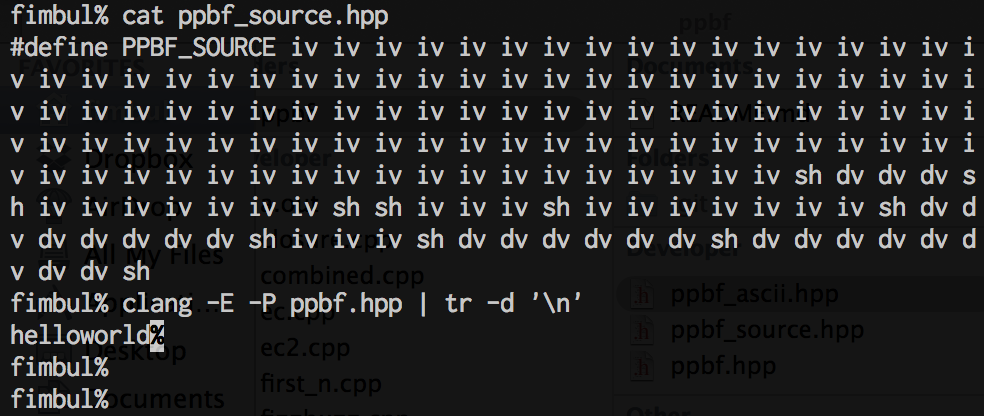
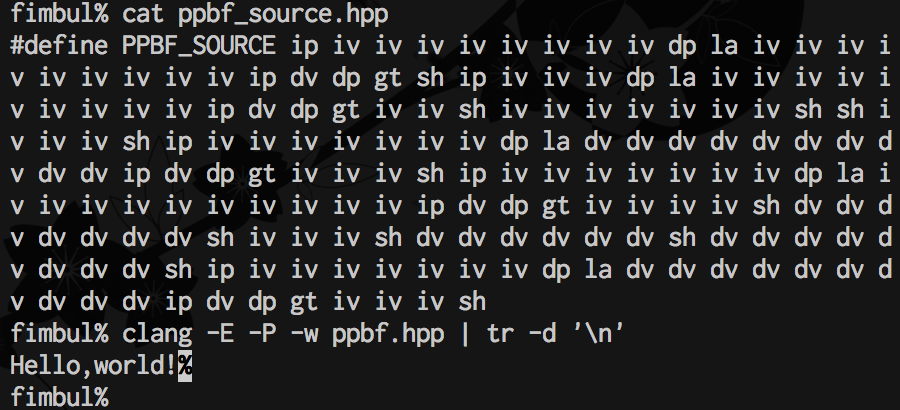
READMEを更新、screenshotを差し替え

Changed region(s): [[0.0, 0.0, 0.9956, 0.9951]]

diff --git a/README.md b/README.md
@@ -1,15 +1,24 @@
 #ソースコードの記述  
 実行コードはppbf_source.hpp内のPPBF_SOURCEに1命令ずつスペースで区切って記述する
 
+#仕様
+3つのポインタからなり、初期状態では全てのポインタの値は0であり、1つ目のポインタを指している  
+それぞれのポインタには役割がある  
+1つ目のポインタ - 値ポインタ  
+2つ目のポインタ - フラグポインタ  
+3つ目のポインタ - ラベルポインタ  
+
 #命令  
 ip - ポインタをインクリメントする  
 vp - ポインタをデクリメントする  
 iv - ポインタの指す値をインクリメントする  
 dv - ポインタの指す値をデクリメントする  
 sh - ポインタの指す値を表示する  
+la - ラベルポインタに現在の命令位置を書き込む  
+gt - フラグポインタの値が0でなければラベルポインタの指す命令位置にジャンプする  
 
 #実行  
-clang -E -P ppbf.hpp | tr -d '\n' または gcc -E -P ppbf.hpp | tr -d '\n'   
+clang -E -P -w ppbf.hpp | tr -d '\n' または gcc -E -P -w ppbf.hpp | tr -d '\n'   
 プリプロセッサでソースコードを解釈し、tr -d '\n'で余計な改行を除去してやる
 
 #実行例  
